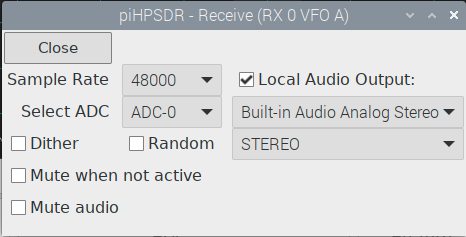
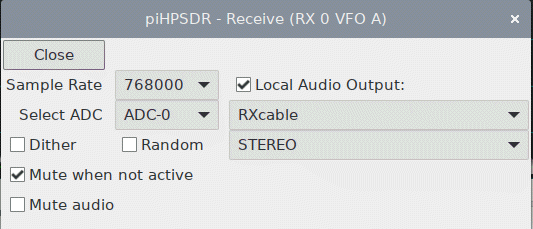
Updated section on digimode programs to cover Fldigi and qSSTV.

Changed region(s): [[0.0, 0.0, 1.0, 1.0], [0.2704, 0.2445, 0.4807, 0.2751]]

diff --git a/release/LatexManual/piHPSDR-Manual.tex b/release/LatexManual/piHPSDR-Manual.tex
@@ -4284,57 +4284,90 @@ in PulseAudio there are the so-called ,,null sink'' devices which are output dev
 that are just black holes that swallow all audio output sent to them. Their only purpose
 is that they also have a monitor device associated which you can then use.
 
+
+
+So we shall create two dummy ("null-sink") output devices which
+we shall call RXcable and TXcable. This is done by the commands (do not enter the line breaks)
+
+\texttt{pacmd load-module module-null-sink sink\_name=RXcable rate=48000 \\
+sink\_properties="device.description=RXcable"
+}
+
+\texttt{pacmd load-module module-null-sink sink\_name=TXcable rate=48000 \\
+sink\_properties="device.description=TXcable"
+}
+
+To control whether the output devices have been created correctly, we use the command
+\texttt{pacmd list-sinks}, which produces
+a very long output from which only the relevant parts are reported here:
+
+\begin{small}
+\begin{verbatim}
+
+...
+    index: 2
+	name: <RXcable>
+	driver: <module-null-sink.c>
+	flags: DECIBEL_VOLUME LATENCY DYNAMIC_LATENCY
+	state: IDLE
+...
+    index: 3
+	name: <TXcable>
+	driver: <module-null-sink.c>
+	flags: DECIBEL_VOLUME LATENCY DYNAMIC_LATENCY
+	state: IDLE
+...
+\end{verbatim}
+\end{small}
+
+Note the index numbers which are 2 for RXcable and 3 for TXcable, these index numbers my
+be different on your machine. The index number of TXcable (here: 3) is needed in the
+case of Fldigi and qSSTV (see note at the end of this section).
+The state may also be different from IDLE depending on whether
+you (already) make use of that device.
+
+Likewise, check the availability of the input devices using
+the command \texttt{pacmd list-sources}, from the output we quote
+
+\begin{small}
+\begin{verbatim}
+
+...
+    index: 2
+	name: <RXcable.monitor>
+	driver: <module-null-sink.c>
+	flags: DECIBEL_VOLUME LATENCY DYNAMIC_LATENCY
+	state: IDLE
+...
+    index: 3
+	name: <TXcable.monitor>
+	driver: <module-null-sink.c>
+	flags: DECIBEL_VOLUME LATENCY DYNAMIC_LATENCY
+	state: IDLE
+...
+\end{verbatim}
+\end{small}
+
+Again, note the index numbers, here they are 2 for the Monitor of RXcable and 3 for the Monitor
+of TXcable. The index nummber of RXcable.monitor (here: 2) is needed in the
+case of Fldigi and qSSTV (see note at the end of this section).
+The state may also be different from IDLE depending on whether
+you (already) make use of that device.
+
+Note that these devices are created once, the commands have to be repeated after rebooting
+the machine or restarting PulseAudio, the devices can be made permanent but you have to
+search the internet on how to do this.
+
+The necessary configuration for piHPSDR and WSJTX is not almost evident. The
+piHPSDR settings are shown in Fig. \ref{fig:rx_settings_pa_audio} (\bltt{RX} menu)
+and in Fig. \ref{fig:tx_settings_pa_audio} (\bltt{TX} menu).
+
 \begin{figure}[ht]
 \center
 \includegraphics[width=12cm]{rx_settings_pa_audio.png}
 \caption{RX menu settings with PulseAudio}
 \label{fig:rx_settings_pa_audio}
 \end{figure}
-
-So the bottom line is: we need no RXcable, but we have to create a null-sink device which
-we shall call TXcable. This is done by the command (do not enter the line break)
-
-\texttt{pacmd load-module module-null-sink sink\_name=TXcable rate=48000 \\
-sink\_properties="device.description=TXcable"
-}
-
-The effect can be controlled with the commane \texttt{pacmd list sinks}, which produces
-a very long output from which only the relevant parts are reported here:
-
-\begin{small}
-\begin{verbatim}
-...
-3 sink(s) available.
-...
-    index: 2
-	name: <TXcable>
-	driver: <module-null-sink.c>
-	flags: DECIBEL_VOLUME LATENCY DYNAMIC_LATENCY
-	state: SUSPENDED
-	suspend cause: IDLE
-...
-3 source(s) available.
-...
-    index: 2
-	name: <TXcable.monitor>
-	driver: <module-null-sink.c>
-	flags: DECIBEL_VOLUME LATENCY DYNAMIC_LATENCY
-	state: SUSPENDED
-...
-\end{verbatim}
-\end{small}
-
-As you can see, an output device with name TXcable has been created, and the corresponding
-monitor device is also present. Note these null-sink devices only exist until you shut
-down the machine. They can be made permanent quite easily (by inserting commands into
-the \texttt{defaults.pa} file), but I recommend to have a startup script executed
-exactly once upon booting that includes the above command. The reason why I prefer a startup
-script is that you can have all your settings for various components (ethernet, audio,
-monitor, etc.) in one file.
-
-The necessary configuration for piHPSDR and WSJTX is not almost evident. The
-piHPSDR settings are shown in Fig. \ref{fig:rx_settings_pa_audio} (\bltt{RX} menu)
-and in Fig. \ref{fig:tx_settings_pa_audio} (\bltt{TX} menu).
 
 \begin{figure}[ht]
 \center
@@ -4355,6 +4388,36 @@ In the WSJTX audio tab, the input/output assigments are just reversed:
 If you do not want to use the headphone output for RX audio, it should be clear how to
 create an additional null-sink device with name, say, RXcable, to be used instead.
 The CAT connection between WSJTX and piHPSDR is the same as in the ALSA case.
+
+\begin{center}
+\fbox{
+\parbox{\textwidth - 1cm}{
+\begin{center}
+\textbf{\color{red} -------- Note on Fldigi and qSSTV --------}
+\end{center}
+Some popular programs, including Fldigi and qSSTV, can use PulseAudio but have
+not user interface to choose the PulseAudio device. This means, they will only
+use the default PulseAudio input and output device. So to use Fldigi and/or
+qSSTV, you have to make TXcable the default output device and the  monitor of
+RXcable the default input device. This means Fldigi/qSSTV will always read
+their audio input from the monitor of RXcable and put the audio they produce
+to TXcable. To achieve this, simply use the two commands
+
+\vspace{0.1cm}
+\texttt{pacmd set-default-sink <index of TXcable>}
+
+\vspace{0.1cm}
+\texttt{pacmd set-default-source <index of RXcable.monitor>}
+
+\vspace{0.1cm}
+where the indices (small integer numbers) are those mentioned above, and are
+take from the output of the \texttt{pacmd list-sinks} and the \texttt{pacmd list-sources}
+commands.
+}
+}
+\end{center}
+
+\clearpage
 
 \textbf{\color{red}Using ,,loopback'' in MacOS}\\
 The standard audio option for MacOS is PORTAUDIO which has no built-in virtual
